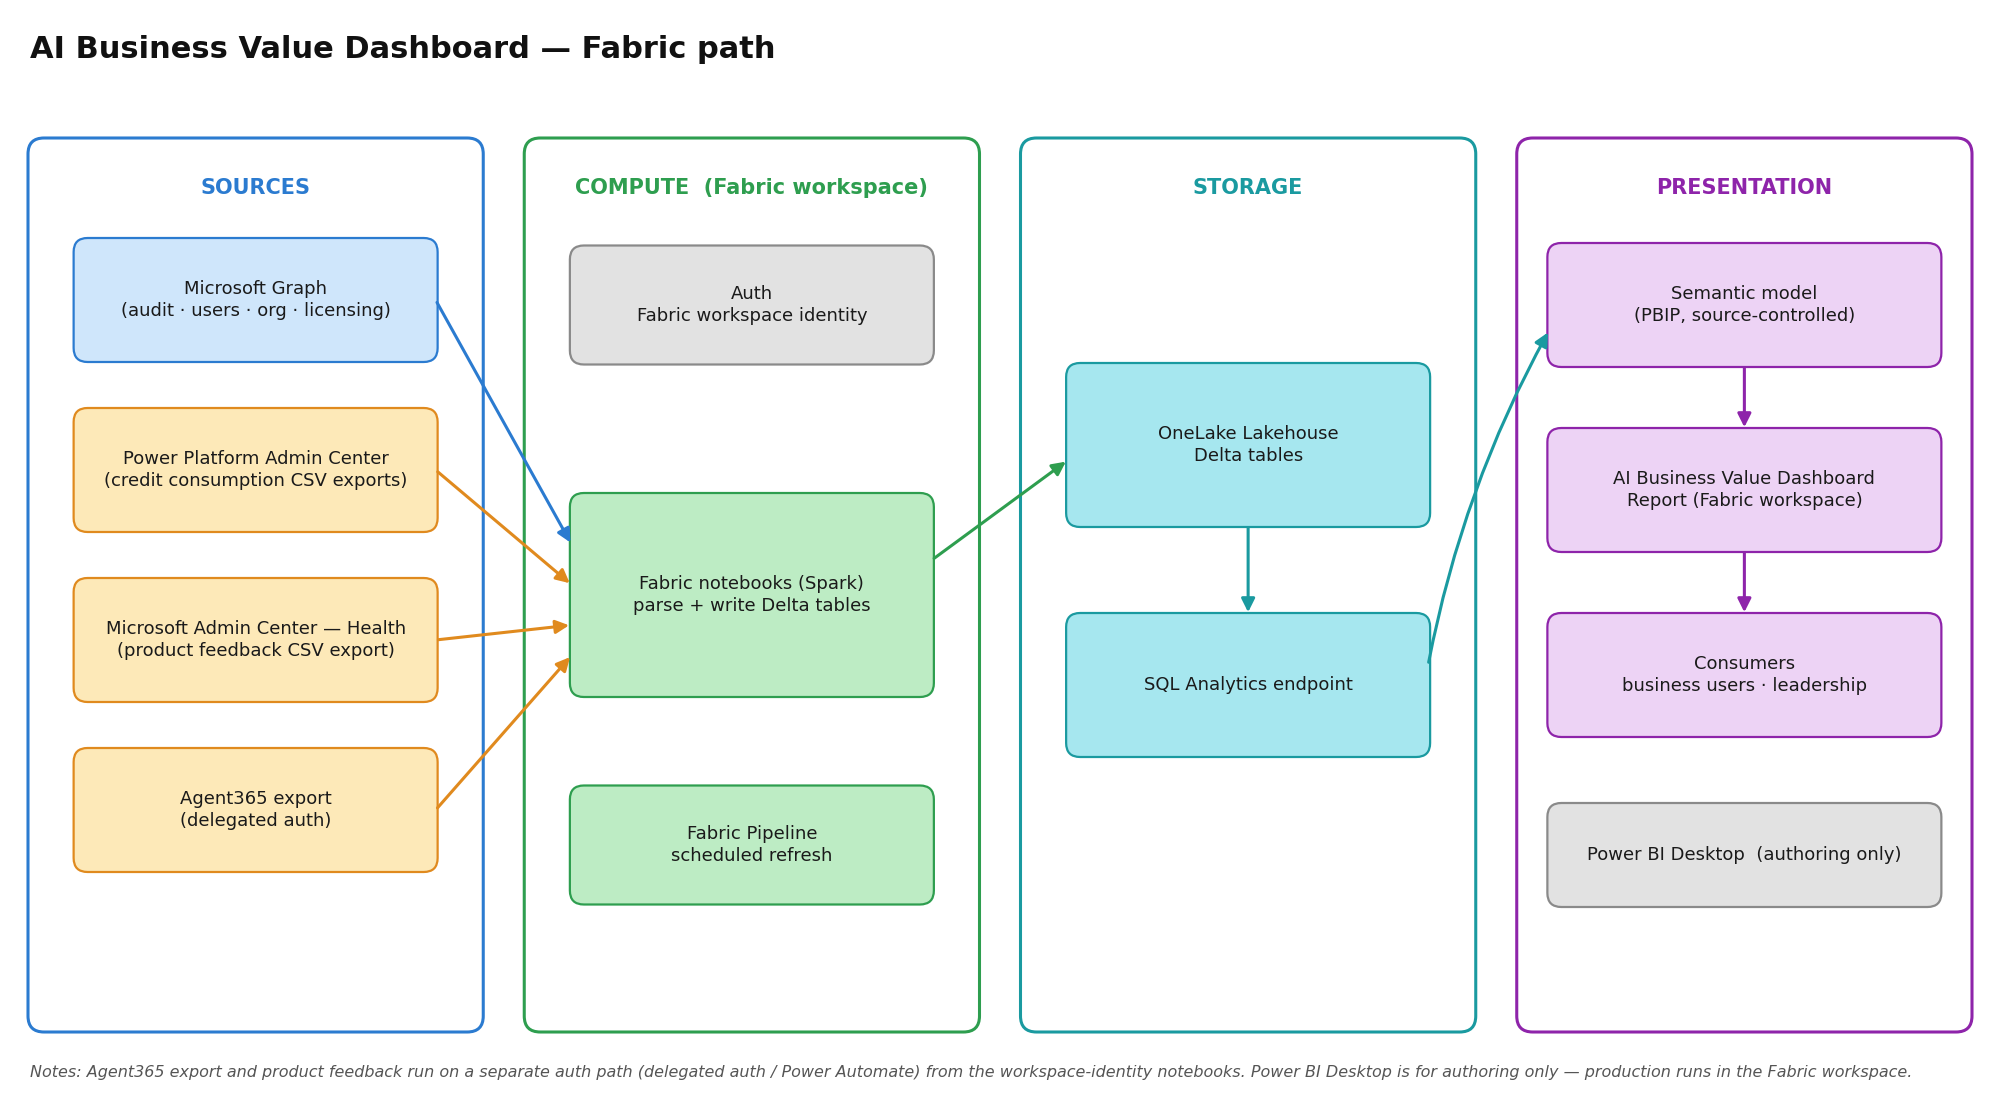
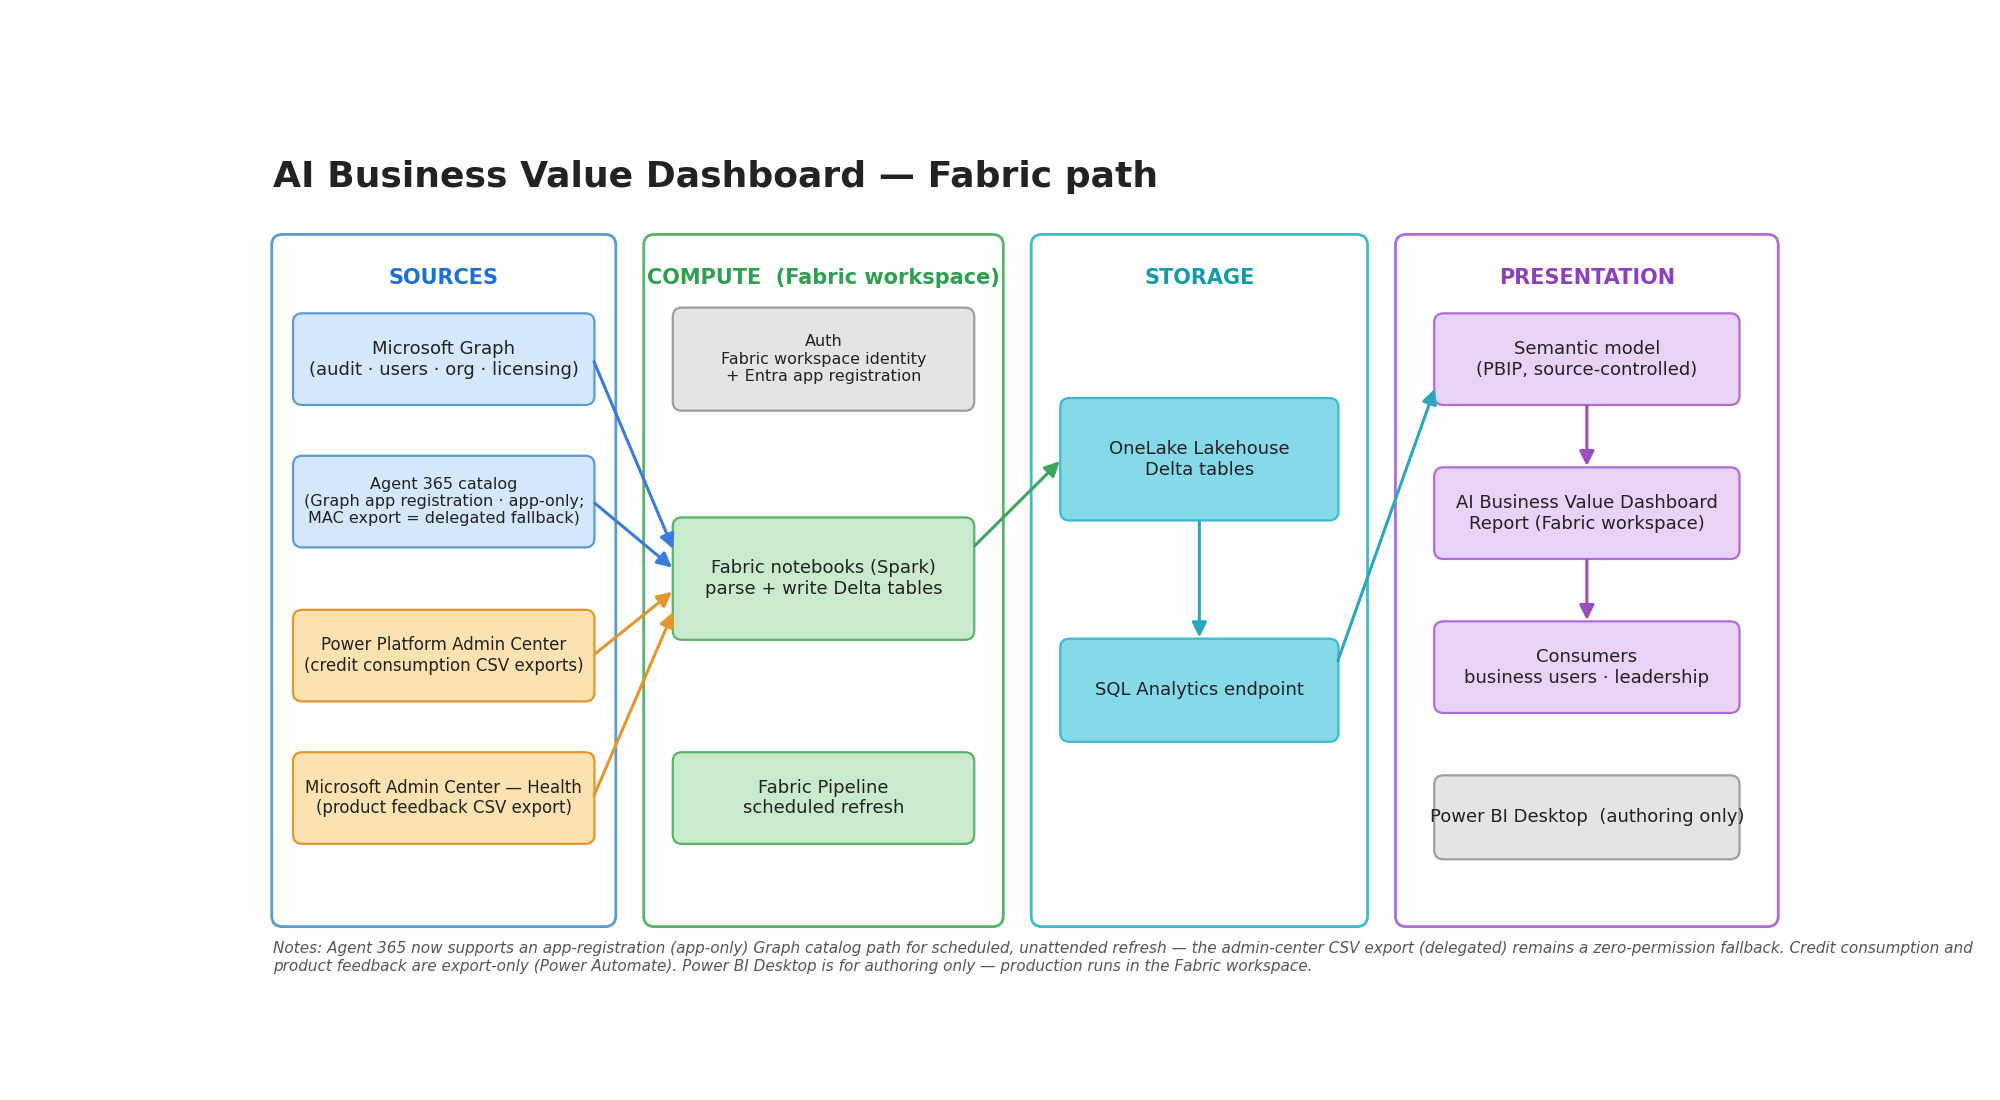
docs(fabric): simplify README + fix Agent 365 dual-auth schematic
Simplify the Fabric README with collapsible dropdowns and de-emphasise optional Copilot Studio / M365 sources. Update auth guidance and regenerate AIBV_Fabric_Architecture.png so the A365 export reflects the app-registration + delegated dual-auth model.

diff --git a/1. Fabric/README.md b/1. Fabric/README.md
@@ -16,19 +16,32 @@ all the heavy JSON parsing happens in Spark and the dataset stays small and fast
 |---|---|
 | `AI Business Value Dashboard - Fabric.pbit` | The Power BI template (thin client over a Lakehouse SQL endpoint). |
 | `notebooks/core/` | **Core.** The seven ingesters the base (*No Studio*) template needs. See [`notebooks/README.md`](notebooks/README.md). |
-| `notebooks/optional/m365/` | *Optional (preview).* M365 Unified Audit Log work-behaviour ingester for the *AI vs Manual Work* comparison. |
-| `+ Studio Agent Deepdive/` | *Optional add-on.* The **+ Studio Agent Deepdive** template plus its Copilot Studio notebooks (transcript parser + Agents 365 registry preview). See [`+ Studio Agent Deepdive/README.md`](./+%20Studio%20Agent%20Deepdive/README.md). |
 | `pipelines/`, `flows/`, `docs/` | Optional: a Fabric pipeline to run the core notebooks on a schedule, Power Automate flows for export-only sources, and reference docs. |
+
+> **The base template is *No Studio*.** Copilot Studio agent-transcript analytics and the M365
+> work-behaviour comparison are **separate optional add-ons** — see
+> [Optional sources](#optional-sources). Everything in this Quick start is the core, Studio-free path.
 
 ## Quick start
 
-### 1. Create a Lakehouse
+Three core notebooks land the Delta tables; the template is a thin client over them. At a glance:
+
+1. **Create a Lakehouse** and note its SQL endpoint.
+2. **Register an Entra app** with three Graph permissions.
+3. **Run the three core notebooks** (audit logs, licensed users, org data).
+4. **Connect the template** — set two parameters and **Load**.
+5. **Schedule the refresh** to match your notebook cadence.
+
+<details>
+<summary><b>1. Create a Lakehouse</b></summary>
 
 In a Fabric workspace on a capacity (F2+ or trial): **+ New -> Lakehouse**, name it (e.g.
 `<your-lakehouse>`). Note its **SQL endpoint** from Lakehouse settings -
 `<workspace-guid>.datawarehouse.fabric.microsoft.com`.
+</details>
 
-### 2. Register an Entra app
+<details>
+<summary><b>2. Register an Entra app</b></summary>
 
 Create an app registration with these **Microsoft Graph application** permissions (admin consent
 required), then note the **Tenant ID**, **Client ID**, and a **Client secret value**:
@@ -38,8 +51,11 @@ required), then note the **Tenant ID**, **Client ID**, and a **Client secret val
 | `AuditLogsQuery.Read.All` | Audit log notebook |
 | `Reports.Read.All` | Licensed users notebook |
 | `User.Read.All` | Org data notebook |
+| `CopilotPackages.Read.All`, `Application.Read.All` | *Optional* — Agent 365 catalog notebook (app-registration path, see [Optional sources](#optional-sources)) |
+</details>
 
-### 3. Run the three core notebooks
+<details>
+<summary><b>3. Run the three core notebooks</b></summary>
 
 For each core notebook (audit logs, licensed users, org data): **+ New -> Import notebook**, attach it
 to your Lakehouse and pin it as default, then paste your three values into the `# === CONFIG ===`
@@ -56,8 +72,10 @@ Use each notebook's **Schedule** button, or wire all three into a single Fabric 
 
 > For production, read the secret from Key Vault instead of a literal - each CONFIG cell has a
 > commented `notebookutils.credentials.getSecret(...)` example.
+</details>
 
-### 4. Connect the template
+<details>
+<summary><b>4. Connect the template</b></summary>
 
 Open `AI Business Value Dashboard - Fabric.pbit` in Power BI Desktop and supply the parameters:
 
@@ -65,34 +83,57 @@ Open `AI Business Value Dashboard - Fabric.pbit` in Power BI Desktop and supply 
 |---|---|---|
 | **Fabric SQL Endpoint** | Yes | `<workspace-guid>.datawarehouse.fabric.microsoft.com` |
 | **Lakehouse Name** | Yes | Your Lakehouse name (e.g. `<your-lakehouse>`) |
-| `Enable_Dataverse` | Optional | `Include` to load agent tables, else `Exclude` |
+| `Enable_Dataverse` | Optional | `Include` to load agent tables (Studio deep-dive), else `Exclude` |
 | `Enable_ProductFeedback` | Optional | `Include` to load `user_feedback`, else `Exclude` |
 | `Enable_Agent365` | Optional | `Include` to load `agents_365`, else `Exclude` |
 | `Enable_Consumption` | Optional | `Include` to load the 3 billing tables, else `Exclude` |
 
 Click **Load**, then **Publish** - ideally to a workspace on the **same Fabric capacity** so Direct
 Lake works without cross-capacity overhead.
+</details>
 
-### 5. Schedule the refresh
+<details>
+<summary><b>5. Schedule the refresh</b></summary>
 
 In the Service: dataset **Settings -> Data source credentials** -> sign in to the SQL endpoint, then
 enable **Scheduled refresh** on a cadence that matches your notebook schedule.
+</details>
 
 ## Optional sources
 
 Leave every `Enable_*` toggle on `Exclude` and the core dashboard still works - optional tables simply
 load empty. To switch one on, set its toggle to `Include` and run the matching notebook:
 
-| Page(s) | Toggle | Notebook |
+| Source | Toggle | Notebook |
 |---|---|---|
-| Agent transcripts (Copilot Studio) | `Enable_Dataverse` | `+ Studio Agent Deepdive/notebooks/Copilot_Agent_Transcript_Parser.ipynb` (see [+ Studio Agent Deepdive](./+%20Studio%20Agent%20Deepdive/README.md)) |
 | Credit / billing consumption | `Enable_Consumption` | `core/Copilot_Credit_Consumption_Ingester.ipynb` ([setup guide](CREDIT-CONSUMPTION-SETUP.md)) |
 | Product feedback | `Enable_ProductFeedback` | `core/Copilot_ProductFeedback_Ingester.ipynb` |
-| Agents 365 | `Enable_Agent365` | `core/Copilot_Agent365_Lander.ipynb` (supported export lander) |
+| Agents 365 | `Enable_Agent365` | `notebooks/Copilot_Agent365_Registry_Ingester.ipynb` (app-registration catalog pull — scheduled/unattended) or `core/Copilot_Agent365_Lander.ipynb` (delegated CSV-export fallback) |
 
 Credit consumption and product feedback are **export-only** in Microsoft's portals (no API) - the
 `flows/` folder has Power Automate flows that auto-land those exports for you. Full detail in
 [`docs/OPTIONAL-SOURCES.md`](docs/OPTIONAL-SOURCES.md).
+
+<details>
+<summary><b>Copilot Studio agent deep-dive</b> — separate add-on template (click to expand)</summary>
+
+Agent-transcript analytics and the Agents 365 registry preview are **not** part of the base *No Studio*
+build — they ship as the **[+ Studio Agent Deepdive](./+%20Studio%20Agent%20Deepdive/README.md)**
+template and notebooks. To enable them:
+
+1. Use the **+ Studio Agent Deepdive** `.pbit` instead of the base template.
+2. Set `Enable_Dataverse` = `Include`.
+3. Run `+ Studio Agent Deepdive/notebooks/Copilot_Agent_Transcript_Parser.ipynb`.
+
+Full setup lives in the [+ Studio Agent Deepdive README](./+%20Studio%20Agent%20Deepdive/README.md).
+</details>
+
+<details>
+<summary><b>M365 work-behaviour comparison</b> — preview add-on (click to expand)</summary>
+
+The optional *AI vs Manual Work* comparison uses the M365 Unified Audit Log ingester at
+`notebooks/optional/m365/`. It's a preview and not required for the core dashboard.
+</details>
 
 <details>
 <summary><b>Manual export instructions</b> — for first-time setups or sources without an API (click to expand)</summary>
@@ -120,6 +161,7 @@ produces a CSV you can drop into the Lakehouse `Files/` area and ingest with the
 - **Output:** **Download users** (CSV)
 
 ### Agent 365 — Microsoft Admin Center
+- **Automated path (preferred):** `notebooks/Copilot_Agent365_Registry_Ingester.ipynb` pulls the catalog directly through the Microsoft Graph app registration (app-only — `CopilotPackages.Read.All` + `Application.Read.All`, admin-consented), so no manual export is needed and it can run scheduled/unattended. The manual export below is the delegated, zero-permission fallback (`core/Copilot_Agent365_Lander.ipynb`).
 - **Portal:** [admin.microsoft.com](https://admin.microsoft.com) → **Agents**
 - **Role:** Global Administrator or Reports Reader (with AI Admin in a Frontier-enrolled tenant)
 - **Output:** **Export** from the Agents Overview (CSV: agent name, ID, availability status, last activity, template, assigned users)
@@ -156,6 +198,9 @@ each notebook tolerates missing inputs, so partial coverage is fine for a first 
 
 ## Works beyond Fabric
 
+<details>
+<summary>Portable to Databricks, Synapse, Azure SQL, or a Fabric Warehouse (click to expand)</summary>
+
 The two core artifacts are deliberately portable:
 
 - **The notebooks** are plain Python + PySpark - they call Graph with `requests` and write Delta with
@@ -168,8 +213,12 @@ template's two parameters (**Fabric SQL Endpoint** = your host, **Lakehouse Name
 The template only needs the three tables - `copilot_interactions_parsed`, `copilot_licensed_users`,
 `copilot_org_data` - to exist in that one database with their expected schema. Already producing parsed
 CSVs upstream? The [`../2. SharePoint/`](../2.%20SharePoint/) path consumes them with no Spark step.
+</details>
 
 ## Troubleshooting
+
+<details>
+<summary>Common symptoms and fixes (click to expand)</summary>
 
 | Symptom | Fix |
 |---|---|
@@ -179,6 +228,8 @@ CSVs upstream? The [`../2. SharePoint/`](../2.%20SharePoint/) path consumes them
 | `the key didn't match any rows` | A notebook ran against the wrong Lakehouse - pin your Lakehouse as default and re-run. |
 | All users show "Unlicensed" | The licensed-users notebook hasn't run yet, or its report period is too narrow (`REPORT_PERIOD = 'D30'`). |
 | Refresh slow (over a minute) | Dataset is in Import mode - put the workspace on a Fabric capacity and convert to **Direct Lake**. |
+
+</details>
 
 ## Reference
 